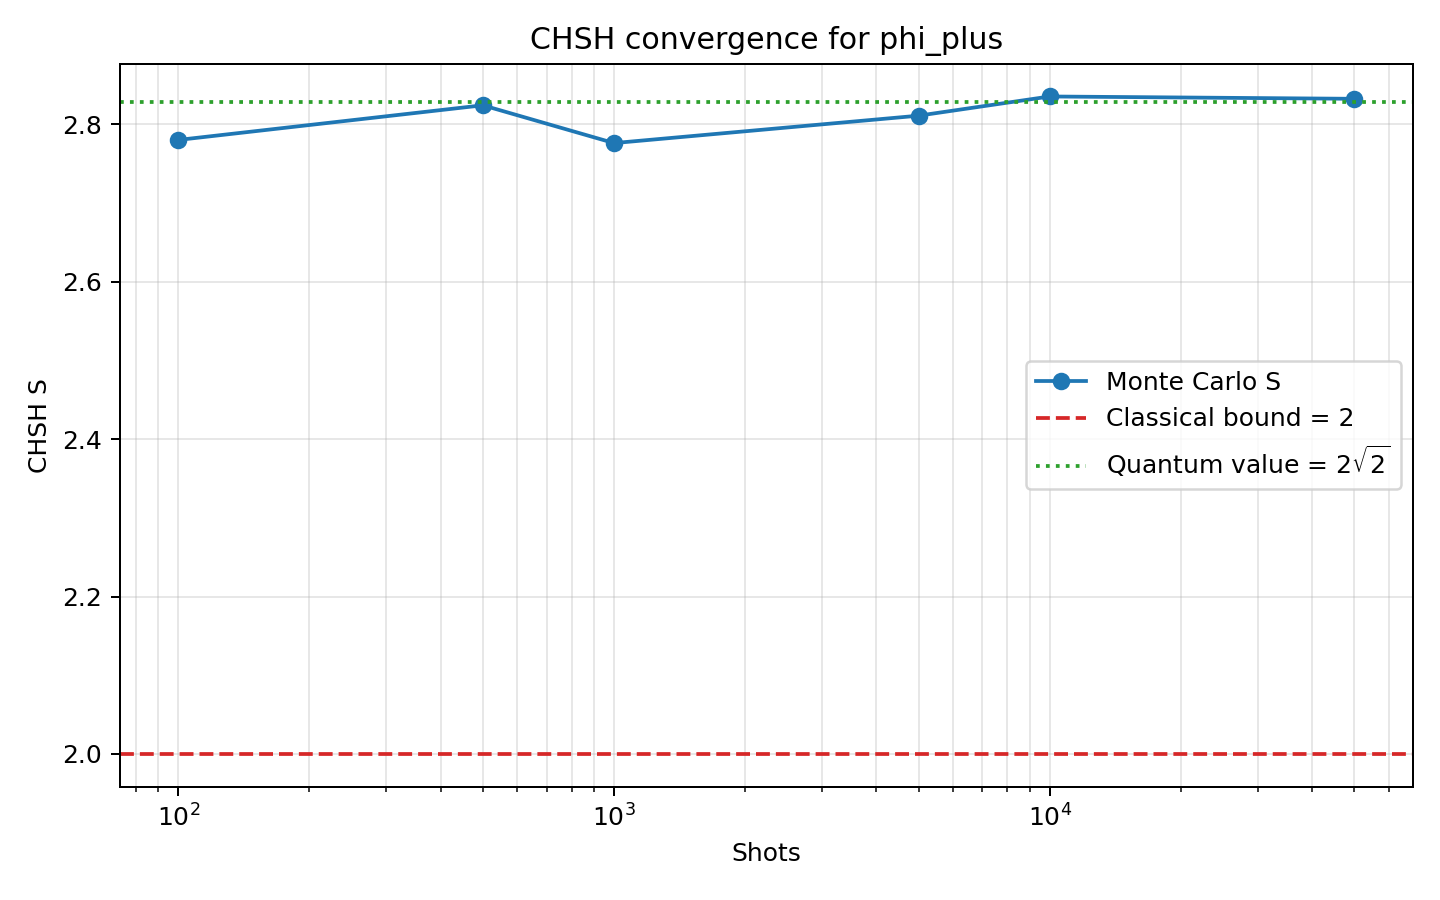
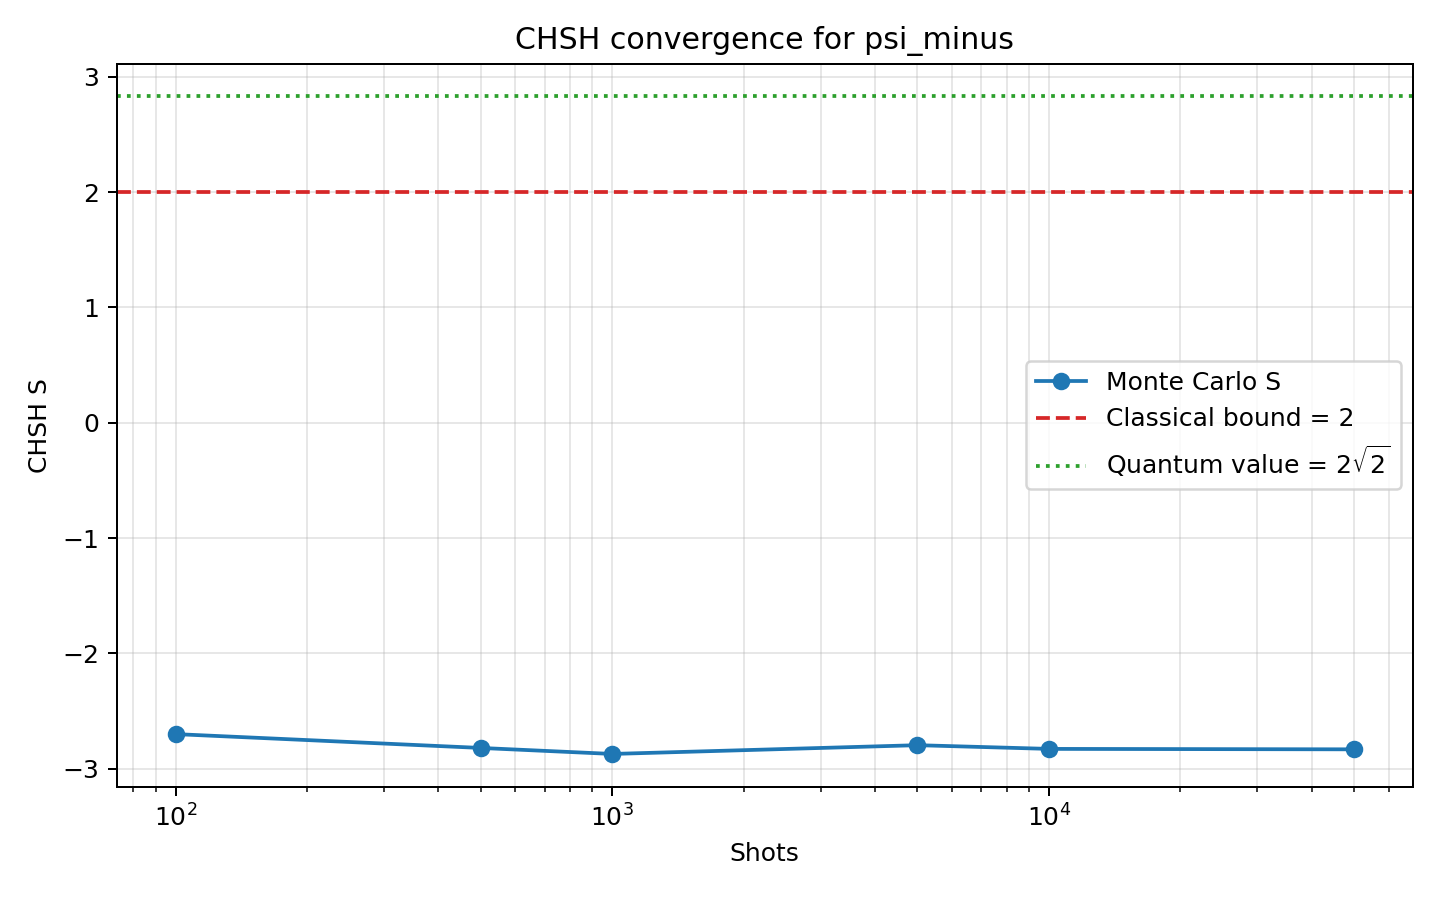
Add CHSH angle scan experiments

diff --git a/src/main.py b/src/main.py
@@ -8,8 +8,10 @@ from math import sqrt
 from pathlib import Path
 
 from src.chsh import (
+    AngleScanResult,
     BELL_STATE_NAMES,
     ChshResult,
+    run_angle_scan,
     run_chsh,
     run_convergence,
 )
@@ -50,6 +52,20 @@ def build_parser() -> argparse.ArgumentParser:
         type=parse_shot_list,
         default=DEFAULT_CONVERGENCE_SHOTS,
         help="Comma-separated shot counts for the convergence plot.",
+    )
+    parser.add_argument(
+        "--angle-scan",
+        action="store_true",
+        help="Also scan b=theta, b'=-theta and save an angle scan figure.",
+    )
+    parser.add_argument("--scan-start", type=float, default=0.0)
+    parser.add_argument("--scan-stop", type=float, default=45.0)
+    parser.add_argument("--scan-points", type=int, default=91)
+    parser.add_argument(
+        "--scan-shots",
+        type=int,
+        default=None,
+        help="Shots per angle-scan point. Defaults to --shots.",
     )
     parser.add_argument("--no-plot", action="store_true")
     return parser
@@ -155,6 +171,27 @@ def write_convergence_csv(results: tuple[ChshResult, ...], path: Path) -> None:
             )
 
 
+def write_angle_scan_csv(results: tuple[AngleScanResult, ...], path: Path) -> None:
+    with path.open("w", newline="", encoding="utf-8") as csv_file:
+        writer = csv.writer(csv_file, lineterminator="\n")
+        writer.writerow(
+            ["bell_state", "theta_deg", "shots", "seed", "s_sim", "s_theory", "error"]
+        )
+        for scan_result in results:
+            result = scan_result.result
+            writer.writerow(
+                [
+                    result.bell_state,
+                    f"{scan_result.theta_deg:.10f}",
+                    result.shots,
+                    result.seed,
+                    f"{result.s_sim:.10f}",
+                    f"{result.s_theory:.10f}",
+                    f"{result.error:.10f}",
+                ]
+            )
+
+
 def plot_convergence(results: tuple[ChshResult, ...], path: Path) -> None:
     import matplotlib
 
@@ -186,11 +223,56 @@ def plot_convergence(results: tuple[ChshResult, ...], path: Path) -> None:
     plt.close()
 
 
+def plot_angle_scan(results: tuple[AngleScanResult, ...], path: Path) -> None:
+    import matplotlib
+
+    matplotlib.use("Agg")
+    import matplotlib.pyplot as plt
+
+    theta_values = [result.theta_deg for result in results]
+    s_sim = [result.s_sim for result in results]
+    s_theory = [result.s_theory for result in results]
+    bell_state = results[0].result.bell_state if results else "unknown"
+    theory_bound = 2 * sqrt(2)
+    optimal_theta = -22.5 if bell_state in {"phi_minus", "psi_plus"} else 22.5
+
+    plt.figure(figsize=(8, 5))
+    plt.plot(theta_values, s_theory, label="Theory S", color="tab:blue")
+    plt.scatter(theta_values, s_sim, s=14, alpha=0.7, label="Monte Carlo S")
+    plt.axhline(2.0, color="tab:red", linestyle="--", label="Classical bounds")
+    plt.axhline(-2.0, color="tab:red", linestyle="--")
+    plt.axhline(
+        theory_bound,
+        color="tab:green",
+        linestyle=":",
+        label=r"Quantum bounds",
+    )
+    plt.axhline(-theory_bound, color="tab:green", linestyle=":")
+    plt.axvline(
+        optimal_theta,
+        color="tab:gray",
+        linestyle="--",
+        label=f"optimal theta = {optimal_theta:g} deg",
+    )
+    plt.xlabel("theta (deg), with b=theta and b'=-theta")
+    plt.ylabel("CHSH S")
+    plt.title(f"CHSH angle scan for {bell_state}")
+    plt.grid(True, alpha=0.3)
+    plt.legend()
+    plt.tight_layout()
+    plt.savefig(path, dpi=180)
+    plt.close()
+
+
 def main() -> int:
     parser = build_parser()
     args = parser.parse_args()
     if args.shots <= 0:
         parser.error("--shots must be a positive integer.")
+    if args.scan_points < 2:
+        parser.error("--scan-points must be at least 2.")
+    if args.scan_shots is not None and args.scan_shots <= 0:
+        parser.error("--scan-shots must be a positive integer.")
 
     ensure_output_dirs()
 
@@ -212,6 +294,19 @@ def main() -> int:
             convergence_results,
             Path("figures/chsh_mvp_convergence.png"),
         )
+
+    if args.angle_scan:
+        scan_results = run_angle_scan(
+            start_deg=args.scan_start,
+            stop_deg=args.scan_stop,
+            points=args.scan_points,
+            shots=args.scan_shots or args.shots,
+            seed=args.seed,
+            bell=args.bell,
+        )
+        write_angle_scan_csv(scan_results, Path("results/chsh_angle_scan.csv"))
+        if not args.no_plot:
+            plot_angle_scan(scan_results, Path("figures/chsh_angle_scan.png"))
 
     return 0
 

diff --git a/src/chsh.py b/src/chsh.py
@@ -55,6 +55,20 @@ class ChshResult:
         return abs(self.s_sim) > 2.0
 
 
+@dataclass(frozen=True)
+class AngleScanResult:
+    theta_deg: float
+    result: ChshResult
+
+    @property
+    def s_sim(self) -> float:
+        return self.result.s_sim
+
+    @property
+    def s_theory(self) -> float:
+        return self.result.s_theory
+
+
 def prepare_bell_state(name: str) -> np.ndarray:
     """Prepare one of the four Bell states from |00> using simple gates."""
     if name not in BELL_STATE_NAMES:
@@ -239,4 +253,32 @@ def run_convergence(
     for shots, child_sequence in zip(shot_values, child_sequences):
         child_seed = int(child_sequence.generate_state(1)[0])
         results.append(run_chsh(shots=shots, seed=child_seed, bell=bell))
+    return tuple(results)
+
+
+def run_angle_scan(
+    start_deg: float = 0.0,
+    stop_deg: float = 45.0,
+    points: int = 91,
+    shots: int = 5000,
+    seed: int | None = 42,
+    bell: str = "phi_plus",
+) -> tuple[AngleScanResult, ...]:
+    """Scan CHSH with a=0, a'=45, b=theta, b'=-theta."""
+    if points < 2:
+        raise ValueError("angle scan needs at least two points.")
+    theta_values = np.linspace(start_deg, stop_deg, points)
+    seed_sequence = np.random.SeedSequence(seed)
+    child_sequences = seed_sequence.spawn(points)
+
+    results = []
+    for theta, child_sequence in zip(theta_values, child_sequences):
+        child_seed = int(child_sequence.generate_state(1)[0])
+        chsh_result = run_chsh(
+            shots=shots,
+            seed=child_seed,
+            bell=bell,
+            angles={"a": 0.0, "ap": 45.0, "b": float(theta), "bp": -float(theta)},
+        )
+        results.append(AngleScanResult(theta_deg=float(theta), result=chsh_result))
     return tuple(results)

diff --git a/report/report.md b/report/report.md
@@ -119,13 +119,44 @@ S_theory = 2.828427
 
 这个结果说明，四个 Bell 态都具有纠缠关联，但同一组 CHSH 测量角并不会对所有 Bell 态给出同样的 `S`。默认角度是围绕 `phi_plus` 的关联函数设置的，因此 `phi_plus` 接近 `+2sqrt(2)`；`psi_minus` 的相关性整体反号，因此得到接近 `-2sqrt(2)`，其绝对值同样违反经典界限。`phi_minus` 和 `psi_plus` 在这组角度下得到接近 0 的 `S`，并不表示它们不是纠缠态，而是说明当前四个测量设置没有对准它们的最优违背方向。
 
+### 四个 Bell 态的角度扫描实验
+
+为了展示测量角选择对 CHSH 违背的影响，程序还实现了角度扫描实验。扫描时固定
+
+```text
+a = 0 deg
+a' = 45 deg
+b = theta
+b' = -theta
+```
+
+并令 `theta` 从 `-45 deg` 扫描到 `45 deg`。以 `phi_plus` 为例，运行命令为：
+
+```bash
+python -m src.main --shots 10000 --seed 42 --bell phi_plus --angle-scan --scan-start -45 --scan-stop 45 --scan-points 181 --scan-shots 5000
+```
+
+分别对四个 Bell 态运行该扫描后，可得到以下图像：
+
+![phi_plus angle scan](../figures/phi_plus_angle_scan.png)
+
+![phi_minus angle scan](../figures/phi_minus_angle_scan.png)
+
+![psi_plus angle scan](../figures/psi_plus_angle_scan.png)
+
+![psi_minus angle scan](../figures/psi_minus_angle_scan.png)
+
+扫描结果显示，不同 Bell 态的最优角度方向不同。`phi_plus` 在 `theta = +22.5 deg` 处达到 `+2sqrt(2)`，`psi_minus` 在同一角度处达到 `-2sqrt(2)`；而 `phi_minus` 和 `psi_plus` 的最优违背方向位于 `theta = -22.5 deg`，分别对应 `+2sqrt(2)` 和 `-2sqrt(2)`。因此，前面默认角度下 `phi_minus` 与 `psi_plus` 的 `S≈0` 并不是因为它们没有纠缠，而是因为默认测量基没有对准它们的最优 CHSH 违背方向。
+
+图中的 Monte Carlo 点围绕理论曲线涨落，体现了有限 shots 带来的统计误差。随着 shots 增加，散点会进一步贴近理论曲线。
+
 收敛图保存在：
 
 ```text
 figures/chsh_mvp_convergence.png
 ```
 
-![CHSH convergence](figures/chsh_mvp_convergence.png)
+![CHSH convergence](../figures/chsh_mvp_convergence.png)
 
 该图以 shots 为横轴，以 CHSH 参数 `S` 为纵轴，同时标出经典极限 `2` 和量子理论值 `2sqrt(2)`。
 
@@ -137,4 +168,4 @@ figures/chsh_mvp_convergence.png
 
 ## 结论
 
-MVP 阶段已经完成 Bell 态制备、偏振基测量、Monte Carlo shots 抽样、关联期望值统计和 CHSH 参数计算。默认实验应能得到 `S > 2` 的结果，并随 shots 增大逐步接近 `2sqrt(2)`。后续可以在此基础上继续加入四个 Bell 态比较、visibility 噪声模型、约化密度矩阵与 von Neumann 熵分析。
+当前阶段已经完成 Bell 态制备、偏振基测量、Monte Carlo shots 抽样、关联期望值统计、四个 Bell 态比较和角度扫描实验。默认 `phi_plus` 实验得到 `S > 2`，并随 shots 增大逐步接近 `2sqrt(2)`；角度扫描进一步说明，CHSH 违背依赖 Bell 态和测量基之间的匹配关系。后续可以在此基础上继续加入 visibility 噪声模型、约化密度矩阵与 von Neumann 熵分析。